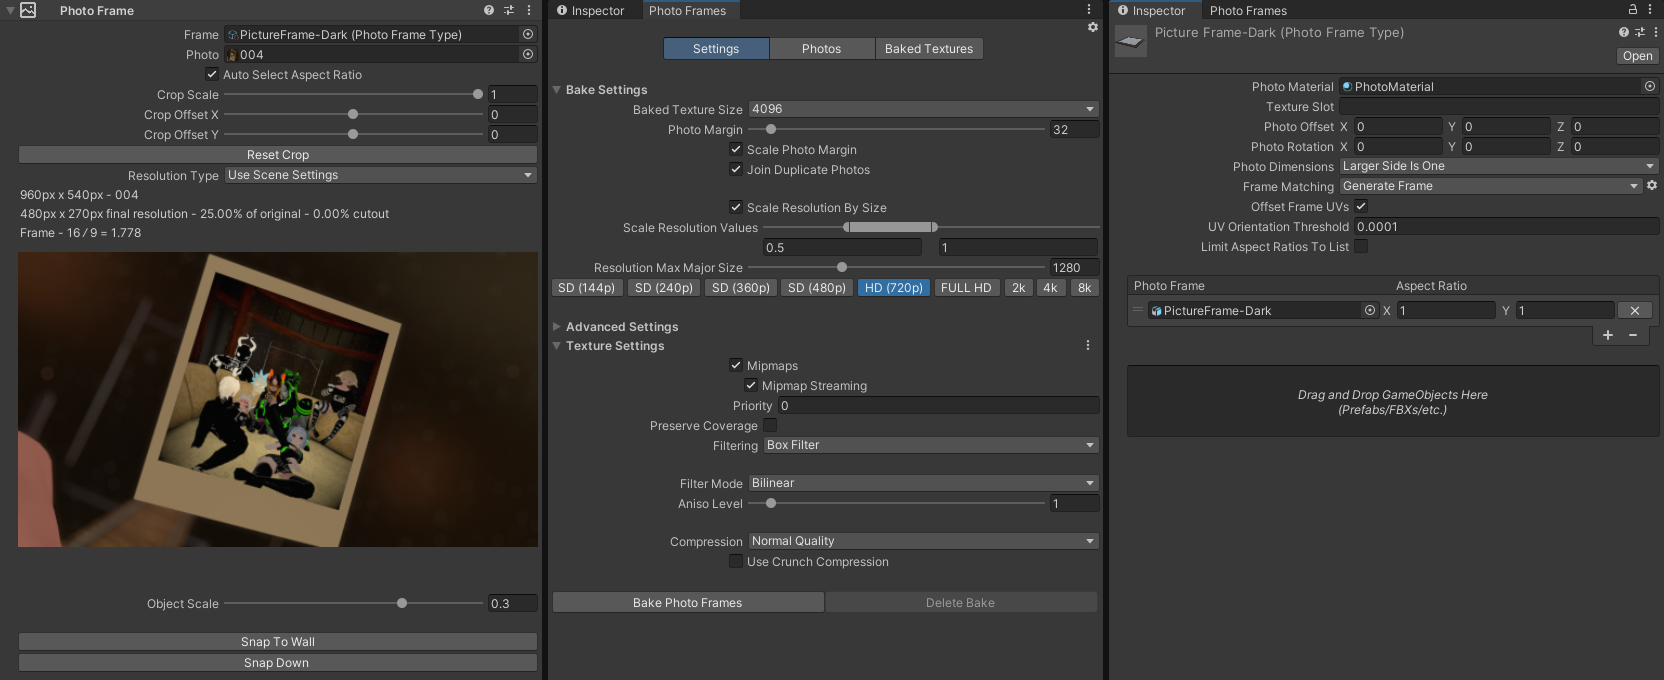
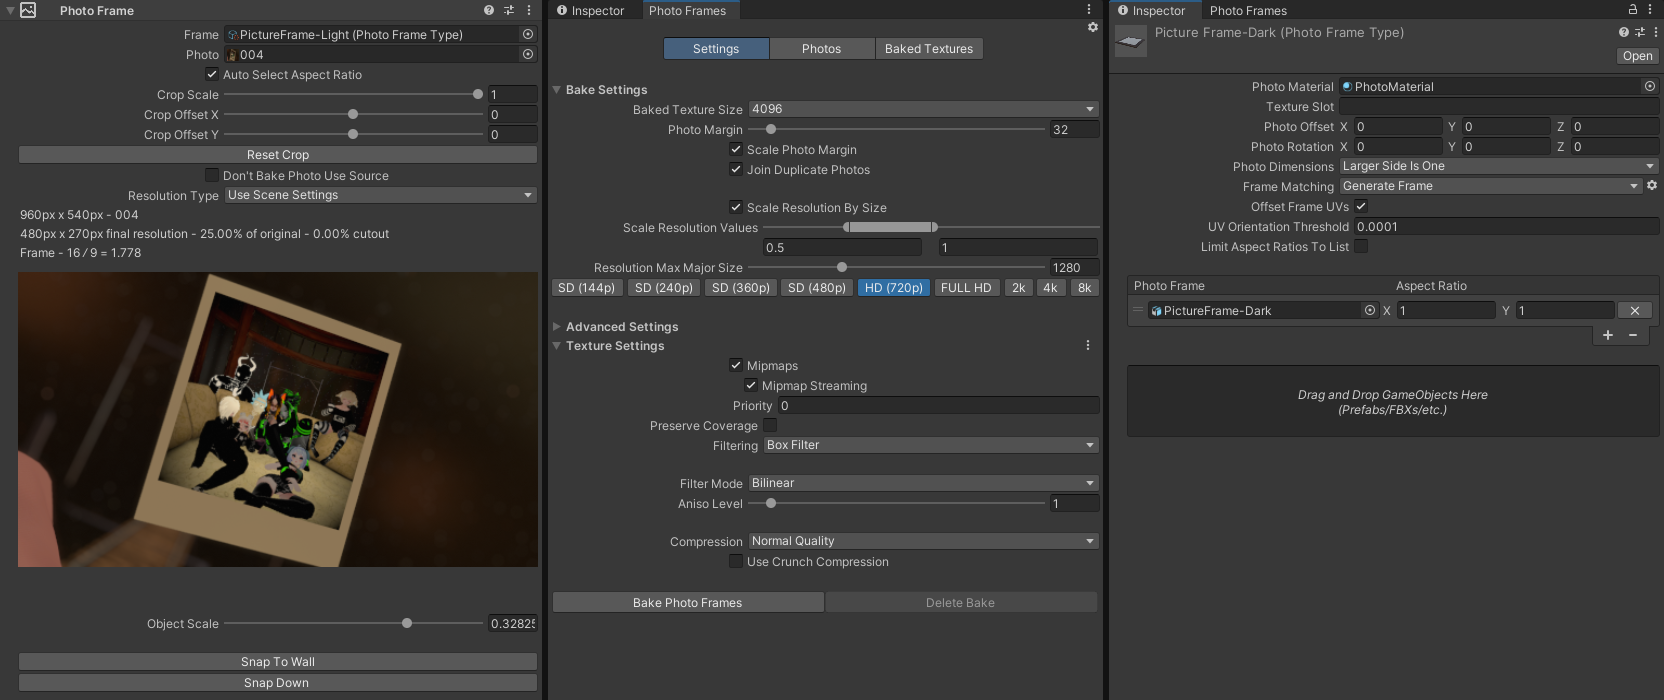
Adds "don't bake photo use source" option to photo frames

diff --git a/src/Editor/PhotoFrameBaker.cs b/src/Editor/PhotoFrameBaker.cs
@@ -41,13 +41,18 @@ namespace codec.PhotoFrame {
 			var info = pfs.Select(pf => {
 				pf.getAspectRatios(out float photoAspectRatio, out float frameAspectRatio, out _);
 				pf.getCropUV(photoAspectRatio, frameAspectRatio, out Vector2 uvMin, out Vector2 uvMax);
-				return (texture: pf.photo, point: pf.transform.position, uvMin, uvMax, size: pf.getFinalResolution(false, true));
+				return (texture: pf.photo, point: pf.transform.position, uvMin, uvMax, size: pf.getFinalResolution(false, true), useSrc: pf.dontBakePhotoUseSource);
 			}).ToArray();
 
 			var inputs = new List<(TextureBaker.Input i, int count)>();
 			var indexes = new int[info.Length];
 
 			for(int a = 0; a < info.Length; a++) {
+				if(info[a].useSrc) {
+					indexes[a] = -1;
+					continue;
+				}
+
 				bool original = true;
 				for(int i = 0; i < inputs.Count(); i++) {
 					if(inputs[i].i.texture != info[a].texture) continue;
@@ -212,8 +217,9 @@ namespace codec.PhotoFrame {
 
 				settings.hasBake = true;
 				settings.textures = texturePaths.Select(path => AssetDatabase.LoadAssetAtPath<Texture2D>(path)).ToArray();
-				List<PhotoFrame>[] photoFramesSave = new List<PhotoFrame>[textures.Length].Select(_ => new List<PhotoFrame>()).ToArray();
-				List<Mesh>[] meshesSave = new List<Mesh>[textures.Length].Select(_ => new List<Mesh>()).ToArray();
+				List<PhotoFrame>[] photoFramesSave = new List<PhotoFrame>[textures.Length + 1].Select(_ => new List<PhotoFrame>()).ToArray();
+				List<Mesh>[] meshesSave = new List<Mesh>[textures.Length + 1].Select(_ => new List<Mesh>()).ToArray();
+				List<Material> extraMaterials = new List<Material>();
 
 				for(int i = 0; i < textures.Length; i++) {
 					Progress_SavingTexutes(i, textures.Length);
@@ -223,7 +229,7 @@ namespace codec.PhotoFrame {
 				}
 
 				for(int i = 0; i < photoFrames.Length; i++) {
-					int textureIndex = outputs[indexes[i]].texture;
+					int textureIndex = indexes[i] != -1 ? outputs[indexes[i]].texture : -2;
 					PhotoFrame pf = photoFrames[i];
 
 					if(textureIndex == -1) {
@@ -232,21 +238,35 @@ namespace codec.PhotoFrame {
 					}
 
 					Material sourceMaterial = pf.photoMaterial;
-					Material material = textureMaterials[textureIndex].Find(matInfo => matInfo.source == sourceMaterial).created;
+					Material material = null;
+					if(textureIndex != -2) material = textureMaterials[textureIndex].Find(matInfo => matInfo.source == sourceMaterial).created;
 					if(material == null) {
 						material = new Material(pf.photoMaterial);
-						material.SetTexture(pf.photoMaterialTextureSlot, settings.textures[textureIndex]);
+						if(textureIndex != -2) material.SetTexture(pf.photoMaterialTextureSlot, settings.textures[textureIndex]);
+						else material.SetTexture(pf.photoMaterialTextureSlot, pf.photo);
 						AssetDatabase.CreateAsset(material, $"{folder}/Photo-Material-{System.Guid.NewGuid()}.mat");
-						textureMaterials[textureIndex].Add((source: sourceMaterial, created: material));
+						if(textureIndex != -2) textureMaterials[textureIndex].Add((source: sourceMaterial, created: material));
+						else extraMaterials.Add(material);
 					}
 
 					Progress_SettingUpPhotoFrames(i, photoFrames.Length);
 
 					pf.getAspectRatios(out float photoAspectRatio, out float frameAspectRatio, out _);
 					pf.getCropUV(photoAspectRatio, frameAspectRatio, out Vector2 uvMin, out Vector2 uvMax);
-					(Vector2 newUvMin, Vector2 newUvMax) = CalcFinalUv(uvMin, uvMax, photoFrameInput[indexes[i]].uvMin, photoFrameInput[indexes[i]].uvMax, outputs[indexes[i]].uvMin, outputs[indexes[i]].uvMax, outputs[indexes[i]].uvRotate);
 
-					Mesh mesh = pf.setBakedData(folder, material, newUvMin, newUvMax, outputs[indexes[i]].uvRotate,
+					Vector2 newUvMin, newUvMax;
+					bool uvRotate = false;
+
+					if(indexes[i] != -1) {
+						(newUvMin, newUvMax) = CalcFinalUv(uvMin, uvMax, photoFrameInput[indexes[i]].uvMin, photoFrameInput[indexes[i]].uvMax, outputs[indexes[i]].uvMin, outputs[indexes[i]].uvMax, outputs[indexes[i]].uvRotate);
+						uvRotate = outputs[indexes[i]].uvRotate;
+					}
+					else {
+						newUvMin = uvMin;
+						newUvMax = uvMax;
+					}
+
+					Mesh mesh = pf.setBakedData(folder, material, newUvMin, newUvMax, uvRotate,
 					(type, index, ratio, size) => {
 						if(type == null) return null;
 						var sameInfo = frames.Find(info => info.type == type && info.index == index && info.ratio == ratio);
@@ -254,14 +274,20 @@ namespace codec.PhotoFrame {
 					});
 					AssetDatabase.CreateAsset(mesh, meshPaths[i]);
 
-					photoFramesSave[textureIndex].Add(pf);
-					meshesSave[textureIndex].Add(mesh);
+					if(textureIndex != -2) {
+						photoFramesSave[textureIndex].Add(pf);
+						meshesSave[textureIndex].Add(mesh);
+					}
+					else {
+						photoFramesSave[textures.Length].Add(pf);
+						meshesSave[textures.Length].Add(mesh);
+					}
 				}
 
 				settings.pfCounts = photoFramesSave.Select(a => a.Count).ToArray();
 				settings.photoFrames = photoFramesSave.SelectMany(a => a).ToArray();
 				settings.meshes = meshesSave.SelectMany(a => a).ToArray();
-				settings.materials = textureMaterials.SelectMany(a => a.Select(b => b.created)).ToArray();
+				settings.materials = textureMaterials.SelectMany(a => a.Select(b => b.created)).Concat(extraMaterials).ToArray();
 				settings.frameMeshes = frames.Where(a => a.isGenerated).Select(a => a.prefab.GetComponent<MeshFilter>().sharedMesh).ToArray();
 				settings.framePrefabs = frames.Where(a => a.isGenerated).Select(a => a.prefab).ToArray();
 			}

diff --git a/src/Special/PhotoFrame.cs b/src/Special/PhotoFrame.cs
@@ -72,6 +72,7 @@ namespace codec.PhotoFrame {
 		public float cropOffsetX = 0;
 		public float cropOffsetY = 0;
 
+		public bool dontBakePhotoUseSource = false;
 		public ResolutionType resolutionType = ResolutionType.UseSceneSettings;
 		public float resolutionValue = 1280;
 
@@ -202,33 +203,34 @@ namespace codec.PhotoFrame {
 				res *= cropScale;
 			}
 
-			bool isInScene = assureSceneSettings();
-			if(scaled && resolutionType == ResolutionType.UseSceneSettings) {
-				int maxMajorSize = SceneSettings.default_resolutionMaxMajorSize;
-				if(isInScene) maxMajorSize = sceneSettings.resolutionMaxMajorSize;
+			if(scaled && !dontBakePhotoUseSource && resolutionType != ResolutionType.Full) {
+				bool isInScene = assureSceneSettings();
+				if(resolutionType == ResolutionType.UseSceneSettings) {
+					int maxMajorSize = SceneSettings.default_resolutionMaxMajorSize;
+					if(isInScene) maxMajorSize = sceneSettings.resolutionMaxMajorSize;
 
-				res *= Mathf.Clamp01(Math.Min(1, maxMajorSize / Math.Max(res.x, res.y)));
-			}
-			else if(scaled && resolutionType == ResolutionType.AbsoluteMajor) res *= Mathf.Clamp01(Math.Min(1, Mathf.Round(resolutionValue) / Math.Max(res.x, res.y)));
-			else if(scaled && resolutionType == ResolutionType.Relative) res *= Mathf.Clamp01(resolutionValue);
+					res *= Mathf.Clamp01(Math.Min(1, maxMajorSize / Math.Max(res.x, res.y)));
+				}
+				else if(resolutionType == ResolutionType.AbsoluteMajor) res *= Mathf.Clamp01(Math.Min(1, Mathf.Round(resolutionValue) / Math.Max(res.x, res.y)));
+				else if(resolutionType == ResolutionType.Relative) res *= Mathf.Clamp01(resolutionValue);
 
-			bool scaleResolutionBySize = SceneSettings.default_scaleResolutionBySize;
-			float scaleResMin = SceneSettings.default_scaleResMin;
-			float scaleResMax = SceneSettings.default_scaleResMax;
-			if(isInScene) {
-				scaleResolutionBySize = sceneSettings.scaleResolutionBySize;
-				scaleResMin = sceneSettings.scaleResMin;
-				scaleResMax = sceneSettings.scaleResMax;
-			}
+				bool scaleResolutionBySize = SceneSettings.default_scaleResolutionBySize;
+				float scaleResMin = SceneSettings.default_scaleResMin;
+				float scaleResMax = SceneSettings.default_scaleResMax;
+				if(isInScene) {
+					scaleResolutionBySize = sceneSettings.scaleResolutionBySize;
+					scaleResMin = sceneSettings.scaleResMin;
+					scaleResMax = sceneSettings.scaleResMax;
+				}
 
-			if(scaled && scaleResolutionBySize && resolutionType != ResolutionType.Full
-			&& scaleResMin < scaleResMax && scaleResMax != 0) {
-				Vector3 scaleVector = transform.lossyScale;
-				float scale = (scaleVector.x + scaleVector.y + scaleVector.z) / 3f;
-				scale = Mathf.Max(scale, scaleResMin);
-				scale /= scaleResMax;
+				if(scaleResolutionBySize && scaleResMin < scaleResMax && scaleResMax != 0) {
+					Vector3 scaleVector = transform.lossyScale;
+					float scale = (scaleVector.x + scaleVector.y + scaleVector.z) / 3f;
+					scale = Mathf.Max(scale, scaleResMin);
+					scale /= scaleResMax;
 
-				res *= scale;
+					res *= scale;
+				}
 			}
 
 			return new Vector2Int((int)Mathf.Max(1, Mathf.Ceil(res.x)), (int)Mathf.Max(1, Mathf.Ceil(res.y)));

diff --git a/src/Editor/PhotoFrameEditor.cs b/src/Editor/PhotoFrameEditor.cs
@@ -22,6 +22,7 @@ namespace codec.PhotoFrame {
 		SerializedProperty cropOffsetX;
 		SerializedProperty cropOffsetY;
 		SerializedProperty resolutionType;
+		SerializedProperty dontBakePhotoUseSource;
 		SerializedProperty resolutionValue;
 
 		Texture2D cropOverlayTexture;
@@ -40,6 +41,7 @@ namespace codec.PhotoFrame {
 			cropOffsetX = serializedObject.FindProperty("cropOffsetX");
 			cropOffsetY = serializedObject.FindProperty("cropOffsetY");
 			resolutionType = serializedObject.FindProperty("resolutionType");
+			dontBakePhotoUseSource = serializedObject.FindProperty("dontBakePhotoUseSource");
 			resolutionValue = serializedObject.FindProperty("resolutionValue");
 		}
 
@@ -203,10 +205,14 @@ namespace codec.PhotoFrame {
 				GUI.FocusControl("");
 			}
 
+			UtilsGUI.AlignedLeftToggle(new GUIContent("Don't Bake Photo Use Source"), dontBakePhotoUseSource, true);
 			ResolutionType resBefore = (ResolutionType)resolutionType.enumValueIndex;
-			UtilsGUI.AlignedPropertyField(new GUIContent("Resolution Type"), resolutionType);
 			ResolutionType resCurrent = (ResolutionType)resolutionType.enumValueIndex;
-			ResolutionControl(samePhoto, resCurrent);
+			if(dontBakePhotoUseSource.boolValue == false) {
+				UtilsGUI.AlignedPropertyField(new GUIContent("Resolution Type"), resolutionType);
+				resCurrent = (ResolutionType)resolutionType.enumValueIndex;
+				ResolutionControl(samePhoto, resCurrent);
+			}
 
 			GUI.enabled = defaultEnabled;
 

diff --git a/readme.md b/readme.md
@@ -60,6 +60,8 @@ Select the photo frame and look in the **Inspector** to see the settings.
 
 **Crop Offset Y** - move the crop up or down
 
+**Don't Bake Photo Use Source** - does not bake photo. Uses the specified photo as the material texture
+
 **Resolution Type** - the way the resolution is controlled
 - **Use Scene Settings**
 - **Resolution Max Major Size** - the size in pixels you want for the photo's larger side to be. Acts as an upper limit so if the size is larger than the photo's actual size its resolution stays unchanged. The buttons below are some presets for this value
